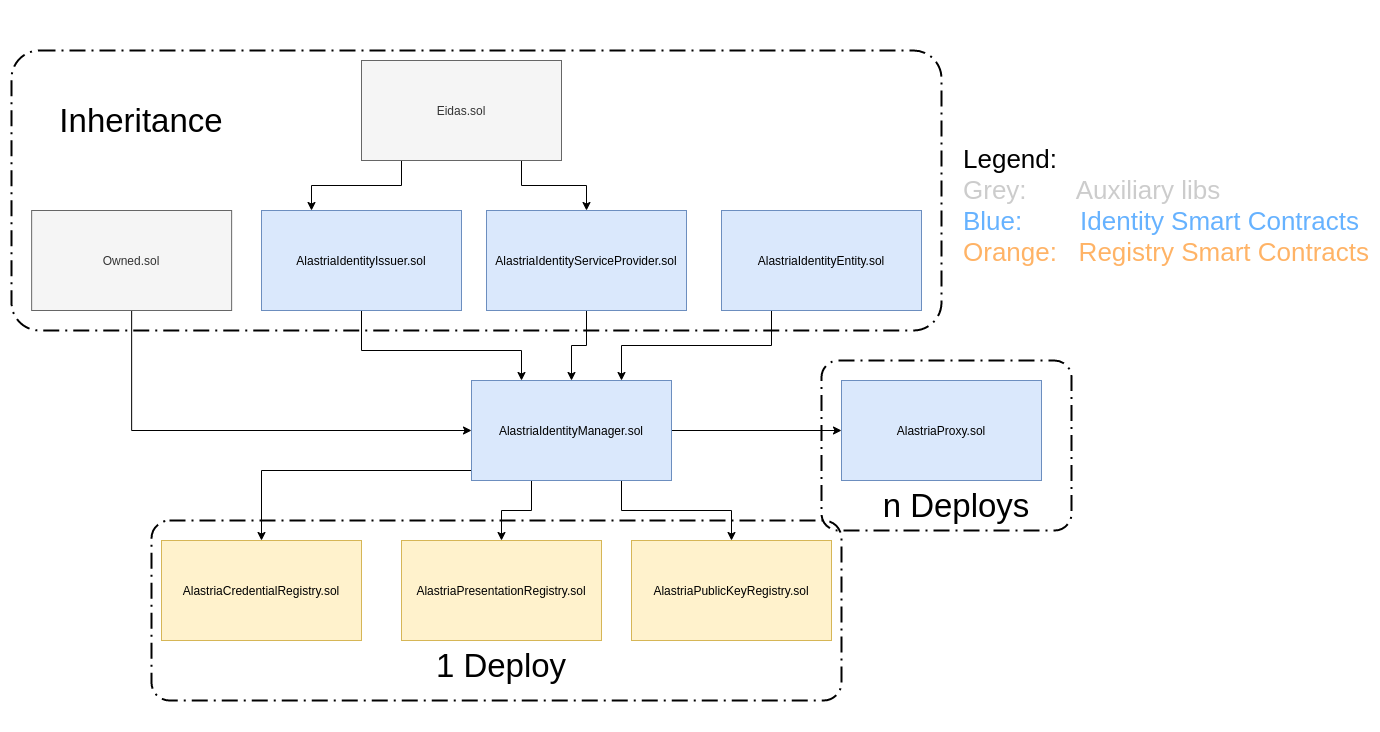
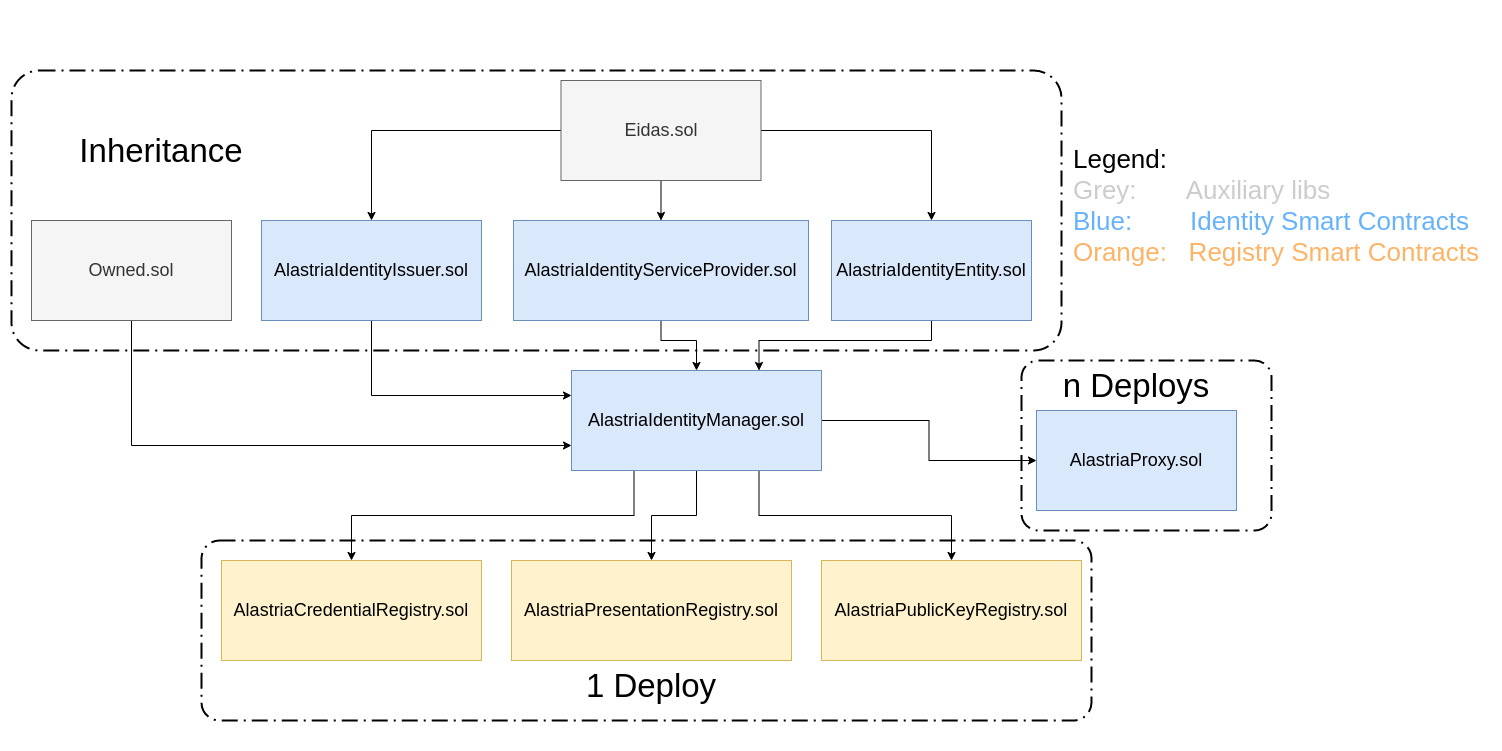
fixed image size

diff --git a/Main.tex b/Main.tex
@@ -5,7 +5,7 @@
 \usepackage[left=3cm, right=3cm, top=3.5cm, bottom=3.5cm]{geometry} % Márgenes recomendados
 \usepackage{times} % Fuente Times New Romans
 \usepackage[english]{babel} 
-\usepackage[style=ieee, backend=bibtex]{biblatex} % Bibliografía en formato IEEE
+\usepackage[style=ieee, backend=bibtex,citestyle=numeric-comp]{biblatex} % Bibliografía en formato IEEE
 \usepackage{sectsty}
 \usepackage{cover}
 \usepackage{graphicx}
@@ -108,7 +108,7 @@
     
     \subsection{Context}
         \subsubsection{Blockchain}
-            Blockchain\cite{blockchain-sum}\cite{blockchainGartner} is as a large distributed ledger that stores records of transactions. This "ledger" is replicated hundreds of times throughout the network so it is available to everyone. Every time a transaction occurs, it is updated in all of these replicated ledgers, so everyone can see it.\\
+            Blockchain\cite{blockchain-sum,blockchainGartner} is as a large distributed ledger that stores records of transactions. This "ledger" is replicated hundreds of times throughout the network so it is available to everyone. Every time a transaction occurs, it is updated in all of these replicated ledgers, so everyone can see it.\\
             
             Every time a new transaction is initiated, a block is created with the transactions details and broadcast to all the nodes. Every block has a timestamp, and a reference to the previous block in the chain, to help establish a sequence of events. Once the authenticity of the transaction is established, that block is linked to the previous block, creating a chain. This chain of blocks is replicated across the entire network, and all cryptographically secured which makes it not only challenging, but almost impossible to hack.
             
@@ -188,7 +188,7 @@
         
 \section{State of the Art}
     \subsection{Blockchain}
-        Blockchain\cite{Bitcoin2015}\cite{blockchain-hype}\cite{blockchain-tech} is a type of \acrfull{dlt} which provides several properties. The main ones, known as the three pillars of the blockchain technology are:
+        Blockchain\cite{Bitcoin2015,blockchain-hype,blockchain-tech} is a type of \acrfull{dlt} which provides several properties. The main ones, known as the three pillars of the blockchain technology are:
         \begin{itemize}
             \item \textbf{Decentralization}. The information is not stored by a single entity, in fact, everyone in the network owns the information and can access it. Decentralization means that there is no core authority to dictate the truth to the other participants. Also, in a decentralized network, if you want to interact with another participant, you can do it directly without going through a third party.
             \item \textbf{Transparency}. The most misunderstood property. Some people say blockchain gives you privacy while some say that it is transparent. The fact is, that blockchain technology gives you both. Transparency because every participant in the network can see the transactions and its data, and privacy because the involved accounts are hidden via complex cryptography. In the figure below (figure \ref{fig:alastria_block_explorer}) we can see the public transaction in the Alastria network, but we are not able to know the accounts "from" and "to".
@@ -303,7 +303,7 @@
                 In the following sections we will talk in detail about the Smart Contracts and Solidity.
                 
             \paragraph{EVM Characteristics}
-                The \acrshort{evm} has a series of unique characteristics\cite{ethereumGavin}\cite{ethereumDocu}:
+                The \acrshort{evm} has a series of unique characteristics\cite{ethereumGavin,ethereumDocu}:
                 \begin{itemize}
                     \item It provides a \textbf{high level of security}. As it is a virtual machine limited in the instructions (opcodes) and the way they are executed, \acrshort{evm} is capable of executing unreliable codes without disastrous consequences.
                     \item The \acrshort{evm} is a \textbf{completely decentralized} build. Each node within the Ethereum network runs a copy of the virtual machine and is synchronized with the rest of the nodes that make up the network. This guarantees that the instructions given by the \acrshort{evm} are executed as long as there is at least one active node. This allows access to the system from anywhere in the world, resisting censorship and guaranteeing access to network resources. Furthermore, it does not require the participation of third parties, and resources can't be modified or altered.
@@ -411,7 +411,7 @@
             \end{itemize}
             
             \paragraph{How RPC works}
-                From the point of view of a remote call, the calling program is known as client, and the subroutine it calls is known as the server\cite{rpcInOS}\cite{howRPC}. When the client calls the server, the \acrshort{rpc} system must take care of:
+                From the point of view of a remote call, the calling program is known as client, and the subroutine it calls is known as the server\cite{rpcInOS,howRPC}. When the client calls the server, the \acrshort{rpc} system must take care of:
                 \begin{itemize}
                     \item Taking all the parameters which are passed to the subroutine and transferring them to the remote node
                     \item Having the subroutine executed on the remote node
@@ -670,7 +670,7 @@
                     In a second phase\cite{que-es-david19}, it is proposed that the entities join the ecosystem, and that they can issue more sophisticated credentials, such as permits to return to work, medical certifications or academic degrees. The ultimate goal of David19 is for a person to only need a mobile device (wallet) to demonstrate that they are fit to get on a plane, return to work, visit a museum, etc., all in compliance with applicable regulations. The final objective of David19 is that a person only needs a mobile device (wallet) to demonstrate that they are healthy to get on a plane, return to work, visit a museum, etc., all in compliance with the regulations that apply at the time and the place.
 
                 \paragraph{Hyperledger Indy}
-                    Contributed by the Sovrin Foundation\cite{sovrin-yt}\cite{sovrin}, Hyperledger Indy\cite{indy-gh}\cite{indy} (figure \ref{fig:indy}) enables people to manage and control their digital identities. Rather than companies storing large amounts of personal data, what they store are indicators of identity. One of Hyperledger Indy's key tenets is its privacy-by-design approach: \textit{"it's not about protecting data but about designing so, that data doesn't need protection"}.\\
+                    Contributed by the Sovrin Foundation\cite{sovrin-yt,sovrin}, Hyperledger Indy\cite{indy-gh,indy} (figure \ref{fig:indy}) enables people to manage and control their digital identities. Rather than companies storing large amounts of personal data, what they store are indicators of identity. One of Hyperledger Indy's key tenets is its privacy-by-design approach: \textit{"it's not about protecting data but about designing so, that data doesn't need protection"}.\\
                     \begin{figure}[h]
                         \centering
                         \includegraphics[width=.3\textwidth]{hyper-indy.png}
@@ -860,7 +860,7 @@
             At the moment no more objects have been defined, but if it is necessary to explain some peculiarities of the model with respect to the previous objects.
             
             \paragraph{Level Of Assurance (LOA)}
-                The Credentials and Presentation Requests can have an attribute called \textit{"levelOfAssurance}, which is the \acrfull{loa}. It corresponds to the \acrshort{eidas} assurance levels\footnote{\url{https://www.eid.as/\#article8}} (\textit{"Low"}, \textit{"Substantial"}, \textit{"High"}), plus an additional lower level \textit{"Self"} for self-asserted data. 
+                The Credentials and Presentation Requests can have an attribute called \textit{"levelOfAssurance}, which is the \acrfull{loa}. It corresponds to the \acrshort{eidas} assurance levels\footnote{\url{https://www.eid.as/\#article8}} (\textit{"Low"}, \textit{"Substantial"}, \textit{"High"}), plus an additional lower level \textit{"Self"} for self-asserted data. \\
                 
                 The actual level depends on the entity making the Credential and the process used by the entity to verify the attribute. If the field does not exist in the Credential, the verifier will have to use the knowledge that it has about the issuing entity in order to assess the risks associating with accepting that credential.
                 
@@ -949,7 +949,7 @@
                     \item \textbf{"AlastriaIdentityManager.sol"}\footnote{\url{https://github.com/alastria/alastria-identity/blob/master/contracts/identityManager/AlastriaIdentityManager.sol}}: this is the main Contract, in charge of creating and managing identities. Contracts \textit{"AlastriaIdentityIssuer.sol"} and \textit{"AlastriaIdentityServiceProvider.sol"} assign roles, and this one creates the identities (\acrshort{did}s). This is the only Contract that is deployed, since it inherits the rest of the "identity" Contracts and is in charge of deploying the "registry" Contracts (figure \ref{fig:mvp1-contracts}).
                     \begin{figure}[h]
                         \centering
-                        \includegraphics[width=1.0\textwidth]{SCs-Diagram.png}
+                        \includegraphics[width=1.1\textwidth]{SCs-Diagram.png}
                         \caption{Alastria ID MVP1 Smart Contracts diagram}
                         \label{fig:mvp1-contracts}
                     \end{figure}
@@ -1245,7 +1245,7 @@
                 \label{fig:stats-aie}
             \end{figure}
         \subsection{Audit of the TypeScript library}
-            The objective of this subsection is to perform a security analysis to the version 1.5\footnote{\url{https://github.com/alastria/alastria-identity-lib/releases/tag/1.5}} of the \textit{TypeScript} library from the \acrshort{mvp}1 in order to detect vulnerabilities, with the aim of improving the quality of the library.\\ 
+            The objective of this subsection is to perform a security analysis to the version 1.5\footnote{\url{https://github.com/alastria/alastria-identity-lib/releases/tag/1.5}\label{lib-version}} of the \textit{TypeScript} library from the \acrshort{mvp}1 in order to detect vulnerabilities, with the aim of improving the quality of the library.\\ 
             
             For this purpose, two analyses will be made. First a dependency analysis will be performed with \textit{\acrshort{npm} audit}\footnote{\url{https://docs.npmjs.com/cli/v6/commands/npm-audit}}. Finally, the \textit{nodejsscan} tool (figure \ref{fig:nodejsscan-logo} will be used. \textit{Nodejsscan} is a \acrfull{sast} for \textit{Node.js} applications powered by \textit{libsast}\footnote{\url{https://github.com/ajinabraham/libsast}} and \textit{semgrep}\footnote{\url{https://github.com/returntocorp/semgrep}}.
             \begin{figure}[h]
